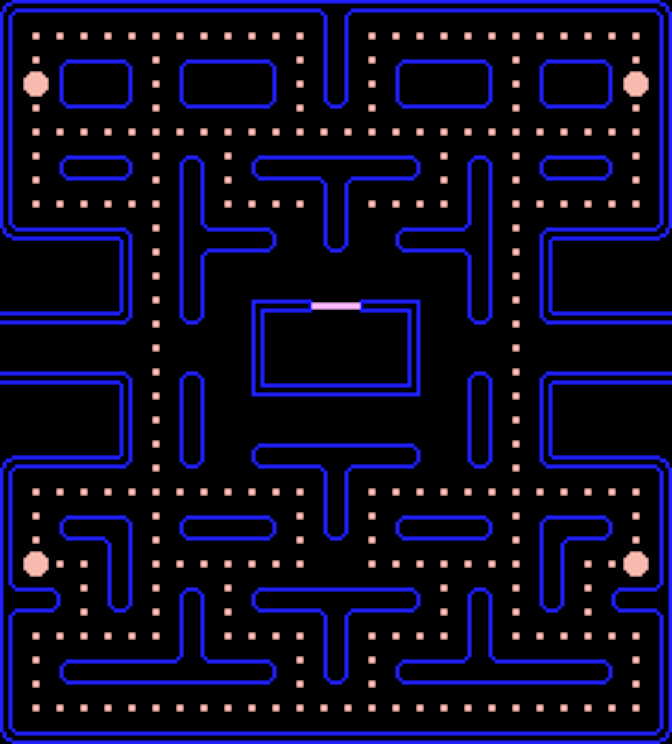
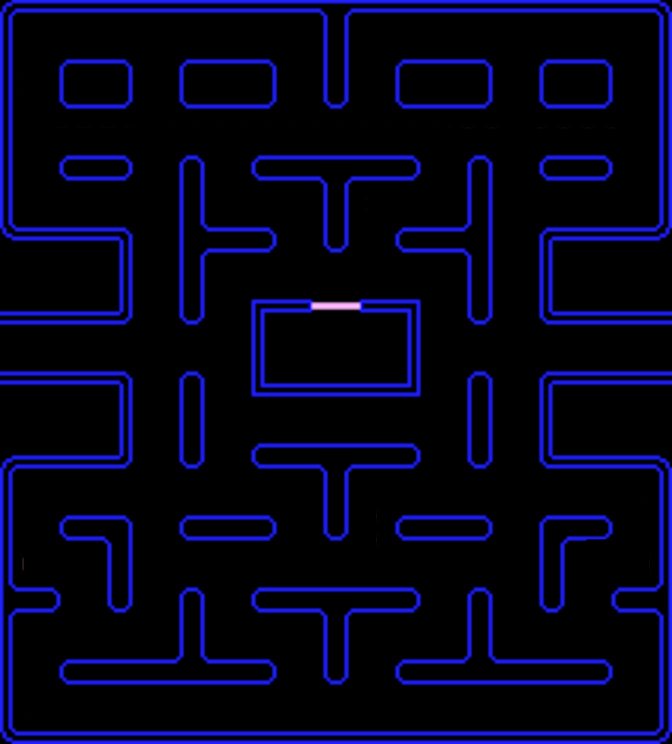
asdlfm

diff --git a/core/src/com/mygdx/game/MyGdxGame.java b/core/src/com/mygdx/game/MyGdxGame.java
@@ -13,12 +13,13 @@ import com.badlogic.gdx.graphics.glutils.ShapeRenderer;
 import com.badlogic.gdx.graphics.glutils.ShapeRenderer.ShapeType;
 import sun.font.TrueTypeFont;
 
+import java.lang.reflect.Array;
 import java.util.*;
 
 public class MyGdxGame extends ApplicationAdapter {
 
 	SpriteBatch batch;
-	Texture img;
+	Texture pac;
 	Texture backgroundTexture;
 	BitmapFont font;
 	ShapeRenderer sr;
@@ -36,7 +37,7 @@ public class MyGdxGame extends ApplicationAdapter {
 		
 		batch = new SpriteBatch();
 		backgroundTexture = new Texture("fullLevel.png");
-		img = new Texture("Original_PacMan_RIGHT.png");
+		pac = new Texture("Original_PacMan_RIGHT.png");
 
 		font = new BitmapFont(Gdx.files.internal("joystix.fnt"),Gdx.files.internal("joystix.png"),false);
 		sr = new ShapeRenderer();
@@ -53,6 +54,7 @@ public class MyGdxGame extends ApplicationAdapter {
 		Gdx.gl.glClearColor(0, 0, 0, 1);
 		Gdx.gl.glClear(GL20.GL_COLOR_BUFFER_BIT);
 
+
 		batch.begin();
 
 		batch.draw(backgroundTexture,0,0);
@@ -67,36 +69,34 @@ public class MyGdxGame extends ApplicationAdapter {
 		String points = "SCORE: "+p.grub()[0];
 		font.draw(batch, points, 0,788);
 
-
-
-		batch.draw(img, x, y);
+		
+		batch.draw(pac, x, y);
 
 
 		if(state .equals("RIGHT")) {
-			img = new Texture("Original_PacMan_RIGHT.png");
+			pac = new Texture("Original_PacMan_RIGHT.png");
 		}
 		if(state .equals("LEFT")) {
-			img = new Texture("Original_PacMan.png");
+			pac = new Texture("Original_PacMan.png");
 		}
 		if(state .equals("DOWN")) {
-			img = new Texture("Original_PacMan_DOWN.png");
+			pac = new Texture("Original_PacMan_DOWN.png");
 		}
 		if(state .equals("UP")) {
-			img = new Texture("Original_PacMan_UP.png");
+			pac = new Texture("Original_PacMan_UP.png");
 		}
 		batch.end();
 		
 		sr.begin(ShapeType.Filled);
-		sr.setColor(0,0,0,0);
-		
-		int[] x = new int[2];
-		x[0] = p.grub()[1]*24;
-		x[1] = p.grub()[2]*24;
-		eaten.add(x);
-		for(int i = 0; i < eaten.size();i++){
-			sr.rect(eaten.get(i)[0],eaten.get(i)[1],32,32);
+		sr.setColor(1,0,0,0);
+		ArrayList<int[]>drawDots = p.drawing();
+		for(int i = 0; i < drawDots.size(); i++){
+			sr.rect(drawDots.get(i)[0]*24+12,drawDots.get(i)[1]*24+12,4,4);
 		}
+		
 		sr.end();
+		
+
 
 	}
 
@@ -104,7 +104,7 @@ public class MyGdxGame extends ApplicationAdapter {
 	@Override
 	public void dispose () {
 		batch.dispose();
-		img.dispose();
+		pac.dispose();
 		font.dispose();
 		sr.dispose();
 	}

diff --git a/core/src/com/mygdx/game/Pacman.java b/core/src/com/mygdx/game/Pacman.java
@@ -3,6 +3,8 @@ package com.mygdx.game;
 import com.badlogic.gdx.Gdx;
 import com.badlogic.gdx.Input;
 import com.badlogic.gdx.graphics.Texture;
+
+import java.lang.reflect.Array;
 import java.util.*;
 public class Pacman {
 
@@ -92,6 +94,20 @@ public class Pacman {
     public String state(){
         
         return state;
+    }
+    public ArrayList<int[]> drawing(){
+        ArrayList<int[]> dots = new ArrayList<int[]>();
+        for(int i = 0; i < 28;i++){
+            for(int j = 0; j < 31;j++){
+                if(level[i][j] == 2){
+                    int[] t = new int[2];
+                    t[0] = i;
+                    t[1] = j;
+                    dots.add(t);
+                }
+            }
+        }
+        return dots;
     }
 
     
